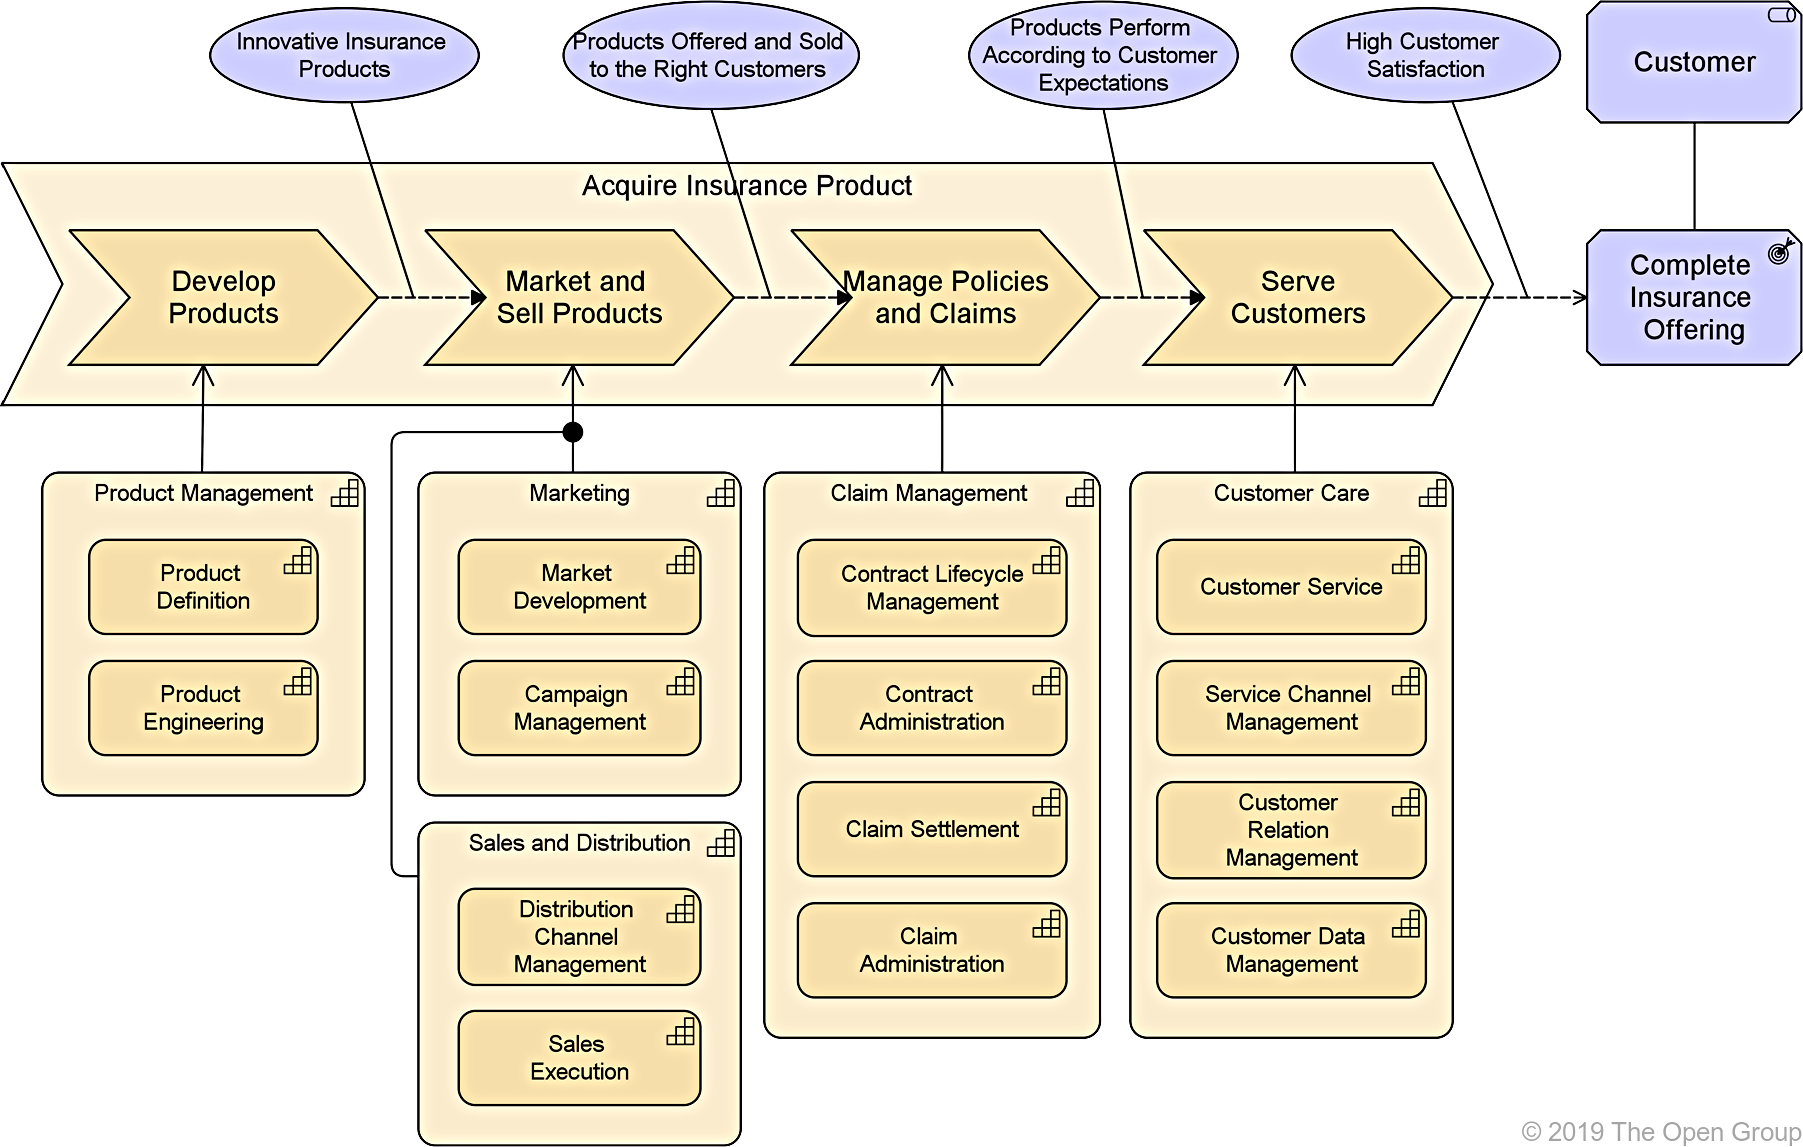
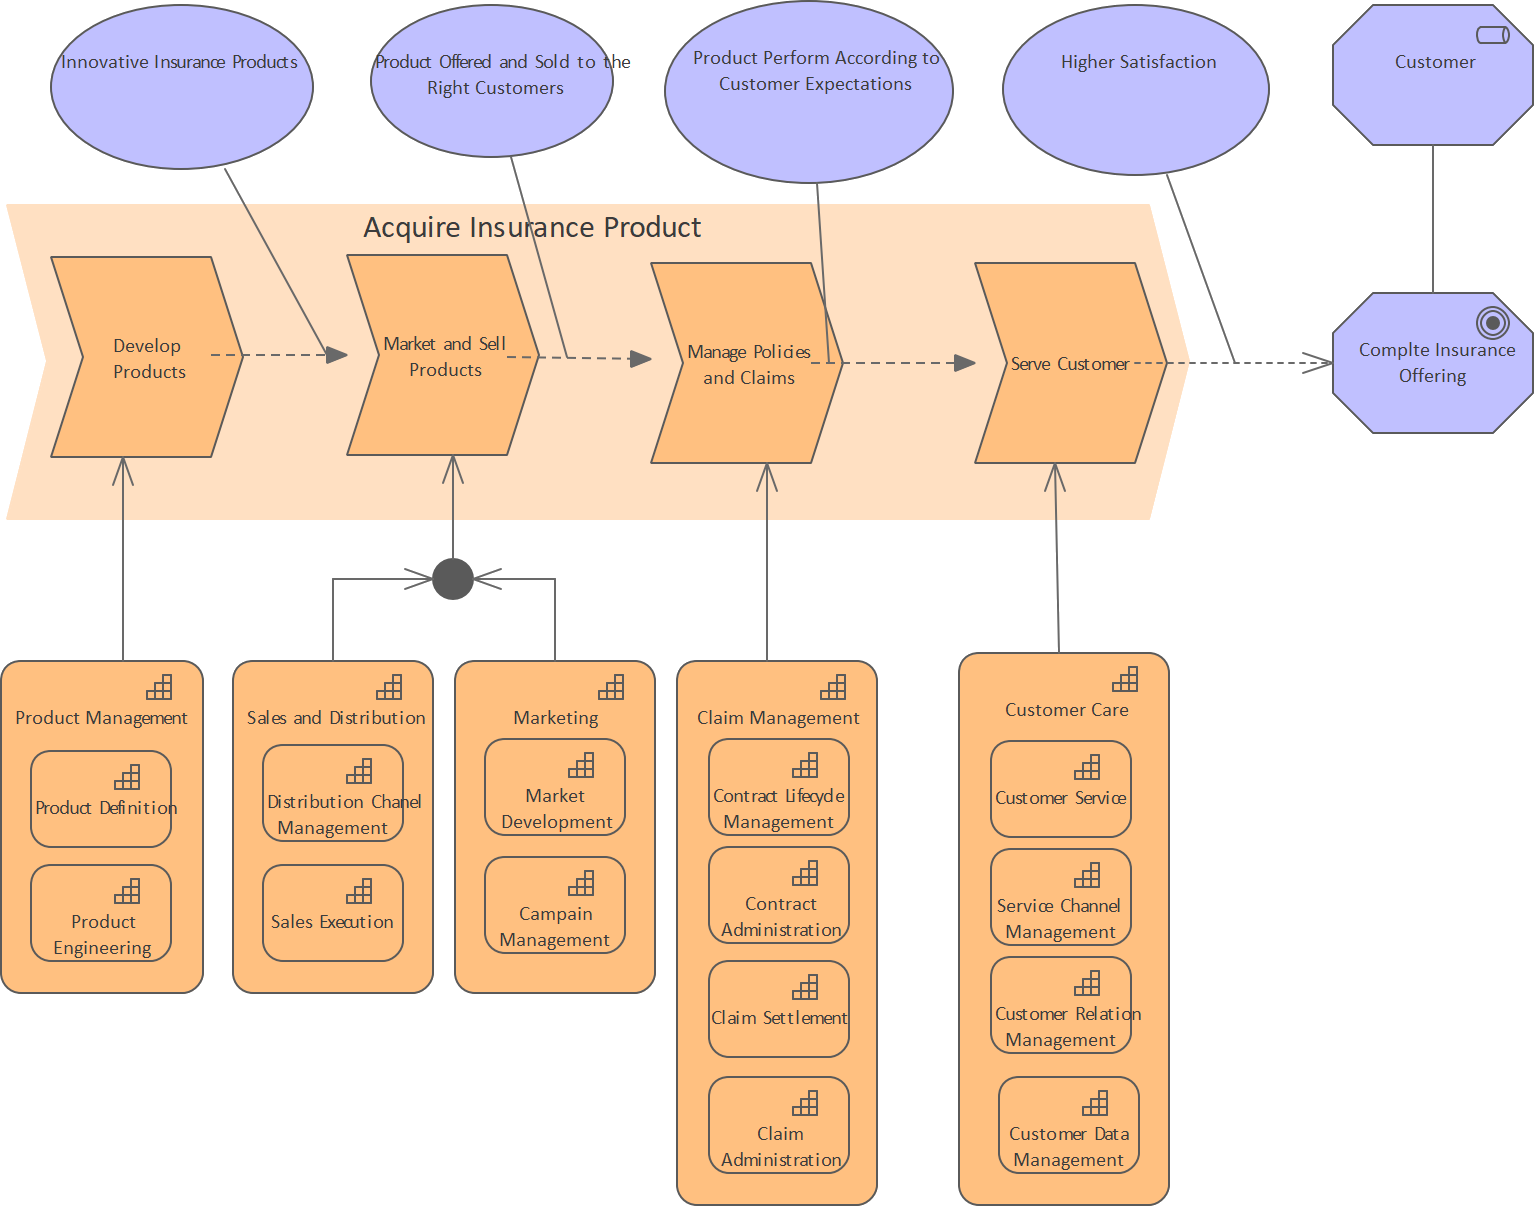
Fix scale problems

diff --git a/src/style.css b/src/style.css
@@ -37,8 +37,9 @@ body {
 
 .layerTable td, .layerTable th {
     border: 1px solid #666;
-    padding: 8px;
+    padding: 2px;
   }
+
   
 
  .layerTable th:nth-child(3) {
@@ -151,6 +152,10 @@ h1, h2, h3, h4 {
     font-family:  'Oswald', sans-serif;
 }
 
+h3 {
+    margin:  0px 0px 10px 10px;
+}
+
 /* Common to all Dialog */
 
 .gbDialog {
@@ -232,13 +237,16 @@ border: 1px solid #000;
 }
 
 /* For Zoom Image */
-.container{ height: 500px;  max-width: 700px; width: 700px; }
+
+.container{ height: 600px;  max-width: 800px; width: 800px; }
 
 
+/*
 .container .zoom{ background-color: #DDD; height: 100%; margin: auto; overflow: hidden; position: relative; width: 100%; }
+*/
+.container .zoom{  height: 100%; margin: auto; overflow: hidden; position: relative; width: 100%; }
 
-.container .zoom img{ bottom: 0; display: block; left: 0; margin: auto; max-height: 100%; max-width: 100%; position: absolute; right: 0; top: 0;
-    filter: drop-shadow(5px 5px 10px black);  
+.container .zoom img{ bottom: 0; display: block; left: 0; margin: 0px; max-height: 100%; max-width: 100%; position: absolute; right: 0; top: 0;
   -moz-transform-style: preserve-3d;
   -ms-transform-style: preserve-3d;
   -o-transform-style: preserve-3d;
@@ -252,3 +260,22 @@ border: 1px solid #000;
   transition: -webkit-transform ease 200ms;
   transition: transform ease 200ms;
 }
+
+/* Override default UI Styles */
+
+.ui-tabs-panel {
+    margin: 0px !important;
+    padding: 0px !important;
+}
+
+.ui-tabs-anchor {
+    height: 10px;
+    padding: 2px;
+}
+
+.ui-accordion-content
+{
+    margin: 0px !important;
+    padding: 0px !important;
+}
+

diff --git a/src/index.html b/src/index.html
@@ -204,10 +204,15 @@
                             <div class="gbTabs">
                                 <ul>
                                     <li><a href="#sExample1">1</a></li>
+                                    <li><a href="#sExample2">2</a></li>
                                 </ul>
                                 <div id="sExample1">
                                     <h3>Capability, Resource, and Course of Action</h3>
                                     <img src="images/sExample1.png" class="arcExample">
+                                </div>
+                                <div id="sExample2">
+                                    <h3>Value Stream with Capability Cross-Mapping</h3>
+                                    <img src="images/sExample2.png" class="arcExample">
                                 </div>
                             </div>
                         </td>

diff --git a/src/app.js b/src/app.js
@@ -45,14 +45,21 @@ $(function () {
 
     /*   Add Zoom  */
 
-    var newImg;
-    $(".arcExample").each(function () {
-        src=$(this).attr('src');
-        newImg = '<div class="container"><div class="zoom"><img  src=' + src + '></div></div>';
-        $(newImg).insertAfter(this);
-        console.log(newImg);
-        $(this).css('display', 'none');
+    function addZoom(obj)
+    {
+        var newImg;
+        src=$(obj).attr('src');
+        newImg = '<div class="container" ><div class="zoom"><img  src=' + src + '></div></div>';
+        $(newImg).insertAfter(obj);
+        $(obj).css('display', 'none');
+    }
+
+
+    /* var newImg; */
+    $(".arcExample , .arcBigDiagram").each(function () {
+        addZoom(this);
     })
-    
+        
+
     zoom();
 });
